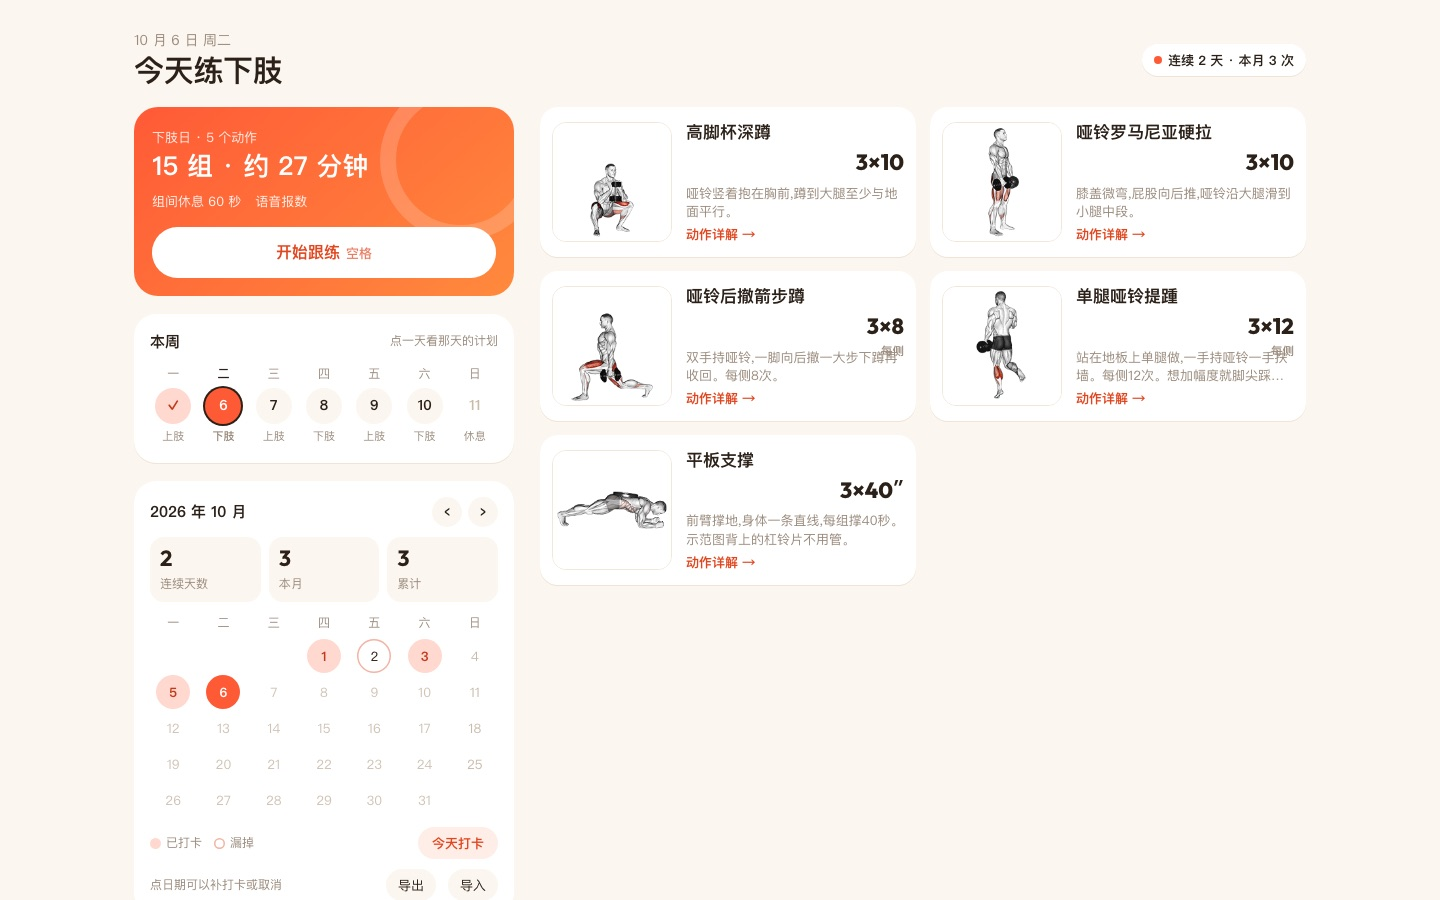
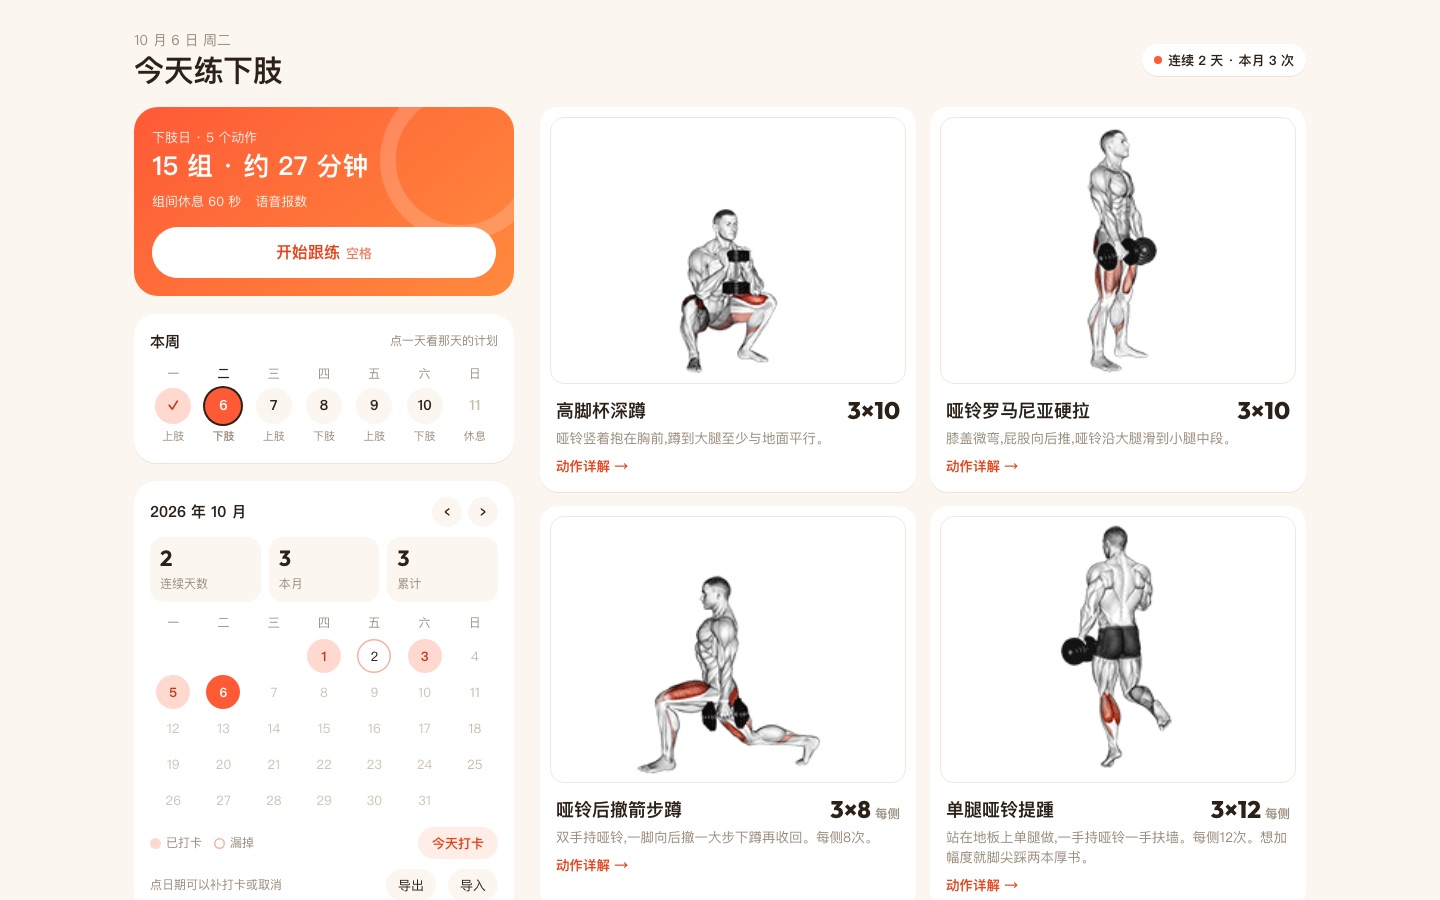
电脑端动作卡片改为大图在上,修复「每侧」与说明文字重叠

diff --git a/index.html b/index.html
@@ -80,22 +80,25 @@
   @media (min-width:960px){.exs h2{display:none}.xl{grid-template-columns:1fr 1fr;gap:14px}}
   .xc{background:var(--card);border-radius:18px;box-shadow:var(--shadow);overflow:hidden}
   .xc.open{grid-column:1/-1}
-  .xh{display:grid;grid-template-columns:62px minmax(0,1fr) auto;gap:12px;align-items:center;padding:8px 12px 8px 8px;width:100%;text-align:left}
-  .xh img{width:62px;height:62px;border-radius:12px;border:1px solid var(--line);background:#fff}
-  .xh b{display:block;font-size:15.5px}
-  .xh small{display:block;color:var(--mute);font-size:12.5px;line-height:1.4;overflow:hidden;display:-webkit-box;-webkit-line-clamp:2;-webkit-box-orient:vertical}
-  .xh .rx{font-weight:800;font-family:var(--num);font-size:17px;white-space:nowrap}
-  .xh .rx{text-align:right}
-  .xh .rx small{display:block;font-family:inherit;font-weight:500;font-size:11.5px;color:var(--mute)}
+  .xh{display:grid;grid-template-columns:62px minmax(0,1fr) auto;grid-template-areas:"img nm rx" "img br rx";column-gap:12px;row-gap:2px;align-items:center;padding:8px 12px 8px 8px;width:100%;text-align:left}
+  .xh img{grid-area:img;width:62px;height:62px;border-radius:12px;border:1px solid var(--line);background:#fff}
+  .xh .nm{grid-area:nm;font-weight:700;font-size:15.5px;align-self:end}
+  .xh .br{grid-area:br;color:var(--mute);font-size:12.5px;line-height:1.4;align-self:start;overflow:hidden;display:-webkit-box;-webkit-line-clamp:2;-webkit-box-orient:vertical}
+  .xh .rx{grid-area:rx;font-weight:800;font-family:var(--num);font-size:17px;white-space:nowrap;text-align:right;line-height:1.2}
+  .xh .rx small{display:block;font-family:"PingFang SC","Noto Sans SC",sans-serif;font-weight:500;font-size:11.5px;color:var(--mute)}
   .xh .more{display:none}
   @media (min-width:960px){
-    .xh{grid-template-columns:120px minmax(0,1fr);gap:14px;padding:12px}
-    .xh img{width:120px;height:120px;border-radius:14px}
-    .xh b{font-size:17px}
-    .xh .rx{grid-column:2;grid-row:1;align-self:start;margin-top:26px;font-size:22px}
-    .xh .tx{grid-column:2;grid-row:1;align-self:start}
-    .xh .tx small{margin-top:38px;font-size:13px}
-    .xh .more{display:inline-block;color:var(--acc-ink);font-size:13px;font-weight:600;margin-top:4px}
+    .xh{grid-template-columns:minmax(0,1fr) auto;grid-template-areas:"img img" "nm rx" "br br" "more more";row-gap:4px;column-gap:10px;align-items:center;padding:10px 10px 14px}
+    .xh img{width:100%;height:auto;aspect-ratio:4/3;object-fit:contain;border-radius:14px;margin-bottom:8px}
+    .xh .nm{font-size:18px;padding-left:6px;align-self:center}
+    .xh .rx{font-size:24px;padding-right:6px}
+    .xh .rx small{display:inline;font-size:12.5px;margin-left:4px}
+    .xh .br{font-size:13.5px;line-height:1.5;padding:0 6px;-webkit-line-clamp:2}
+    .xh .more{grid-area:more;display:inline-block;color:var(--acc-ink);font-size:13.5px;font-weight:600;padding-left:6px;margin-top:4px}
+    .xc.open .xh{grid-template-columns:minmax(0,calc(50% - 7px)) minmax(0,1fr) auto;grid-template-areas:"img nm rx" "img br br" "img more more";grid-template-rows:auto auto 1fr;column-gap:16px;align-items:start}
+    .xc.open .xh img{margin:0}
+    .xc.open .xh .nm{margin-top:8px;font-size:20px}.xc.open .xh .rx{margin-top:6px}
+    .xc.open .xh .br{-webkit-line-clamp:unset}
   }
   .xd{display:none;border-top:1px solid var(--line);padding:14px;gap:16px;background:#FFFCF8}
   .xc.open .xd{display:grid}
@@ -374,9 +377,9 @@ function renderEx(){
   EX[k].forEach(ex=>{
     const rx=ex.hold?`${ex.sets}×${ex.hold}″`:`${ex.sets}×${ex.anims.map(a=>a.reps).join('+')}`, side=sideOf(ex);
     const c=document.createElement('article');c.className='xc';
-    c.innerHTML=`<button class="xh" aria-expanded="false"><img src="${gif(ex.anims[0].gif)}" alt="${esc(ex.name)}" loading="lazy" width="120" height="120">
-      <span class="tx"><b>${esc(ex.name)}</b><small>${esc(ex.brief)}</small><span class="more">动作详解 →</span></span>
-      <span class="rx">${rx}${side?`<small> ${side}</small>`:''}</span></button>
+    c.innerHTML=`<button class="xh" aria-expanded="false"><img src="${gif(ex.anims[0].gif)}" alt="${esc(ex.name)}" loading="lazy" width="190" height="190">
+      <span class="nm">${esc(ex.name)}</span><span class="rx">${rx}${side?`<small>${side}</small>`:''}</span>
+      <span class="br">${esc(ex.brief)}</span><span class="more">动作详解 →</span></button>
       <div class="xd"><div><h4>要点</h4><ul>${ex.points.map(p=>`<li>${esc(p)}</li>`).join('')}</ul>
       <h4>常见错误</h4><ul>${ex.mistakes.map(p=>`<li>${esc(p)}</li>`).join('')}</ul></div>
       <div class="stills"><div class="pair"><img src="${still(ex.anims[0].gif,'a')}" alt="起始位" loading="lazy"><img src="${still(ex.anims[0].gif,'b')}" alt="终点位" loading="lazy"><span>起始位</span><span>终点位</span></div>

diff --git a/sw.js b/sw.js
@@ -1,5 +1,5 @@
 // Offline: the app shell and images are precached; Google Fonts are cached on first use.
-const VERSION = "v1";
+const VERSION = "v2";
 const SHELL = "hw-shell-" + VERSION, FONTS = "hw-fonts";
 const IDS = ["I4hDWkc","BJ0Hz5L","A6wtbuL","rearfly","NbVPDMW","PdmaD0N","yn8yg1r","rR0LJzx","SSsBDwB","1kB3Wmk","VBAWRPG"];
 const FILES = ["./", "index.html", "manifest.webmanifest", "icon.svg", "icons/icon-192.png", "icons/icon-512.png", "icons/apple-touch-icon.png"]
